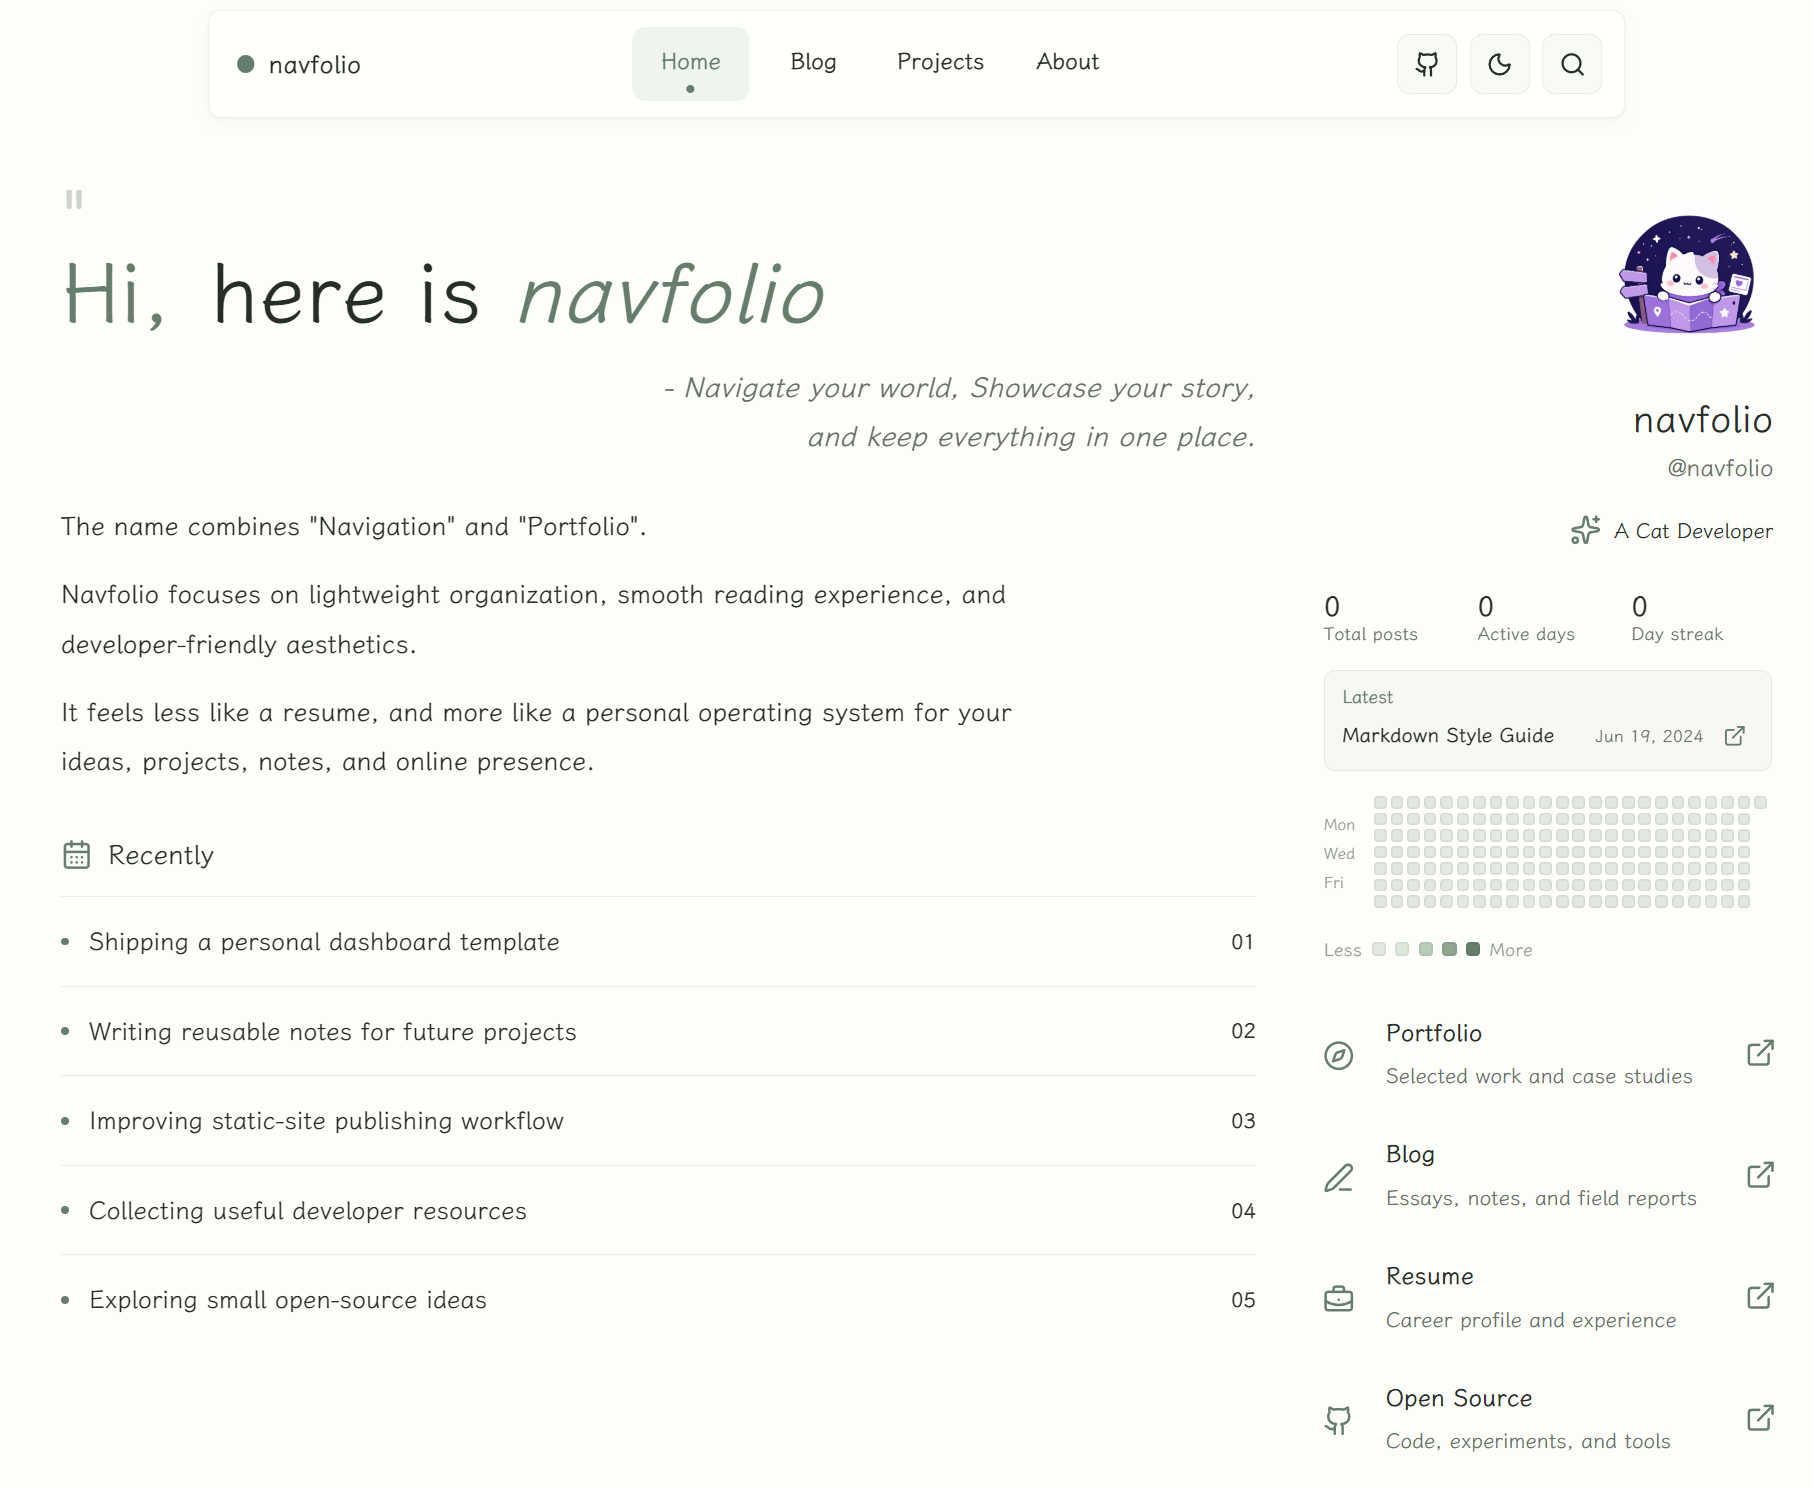
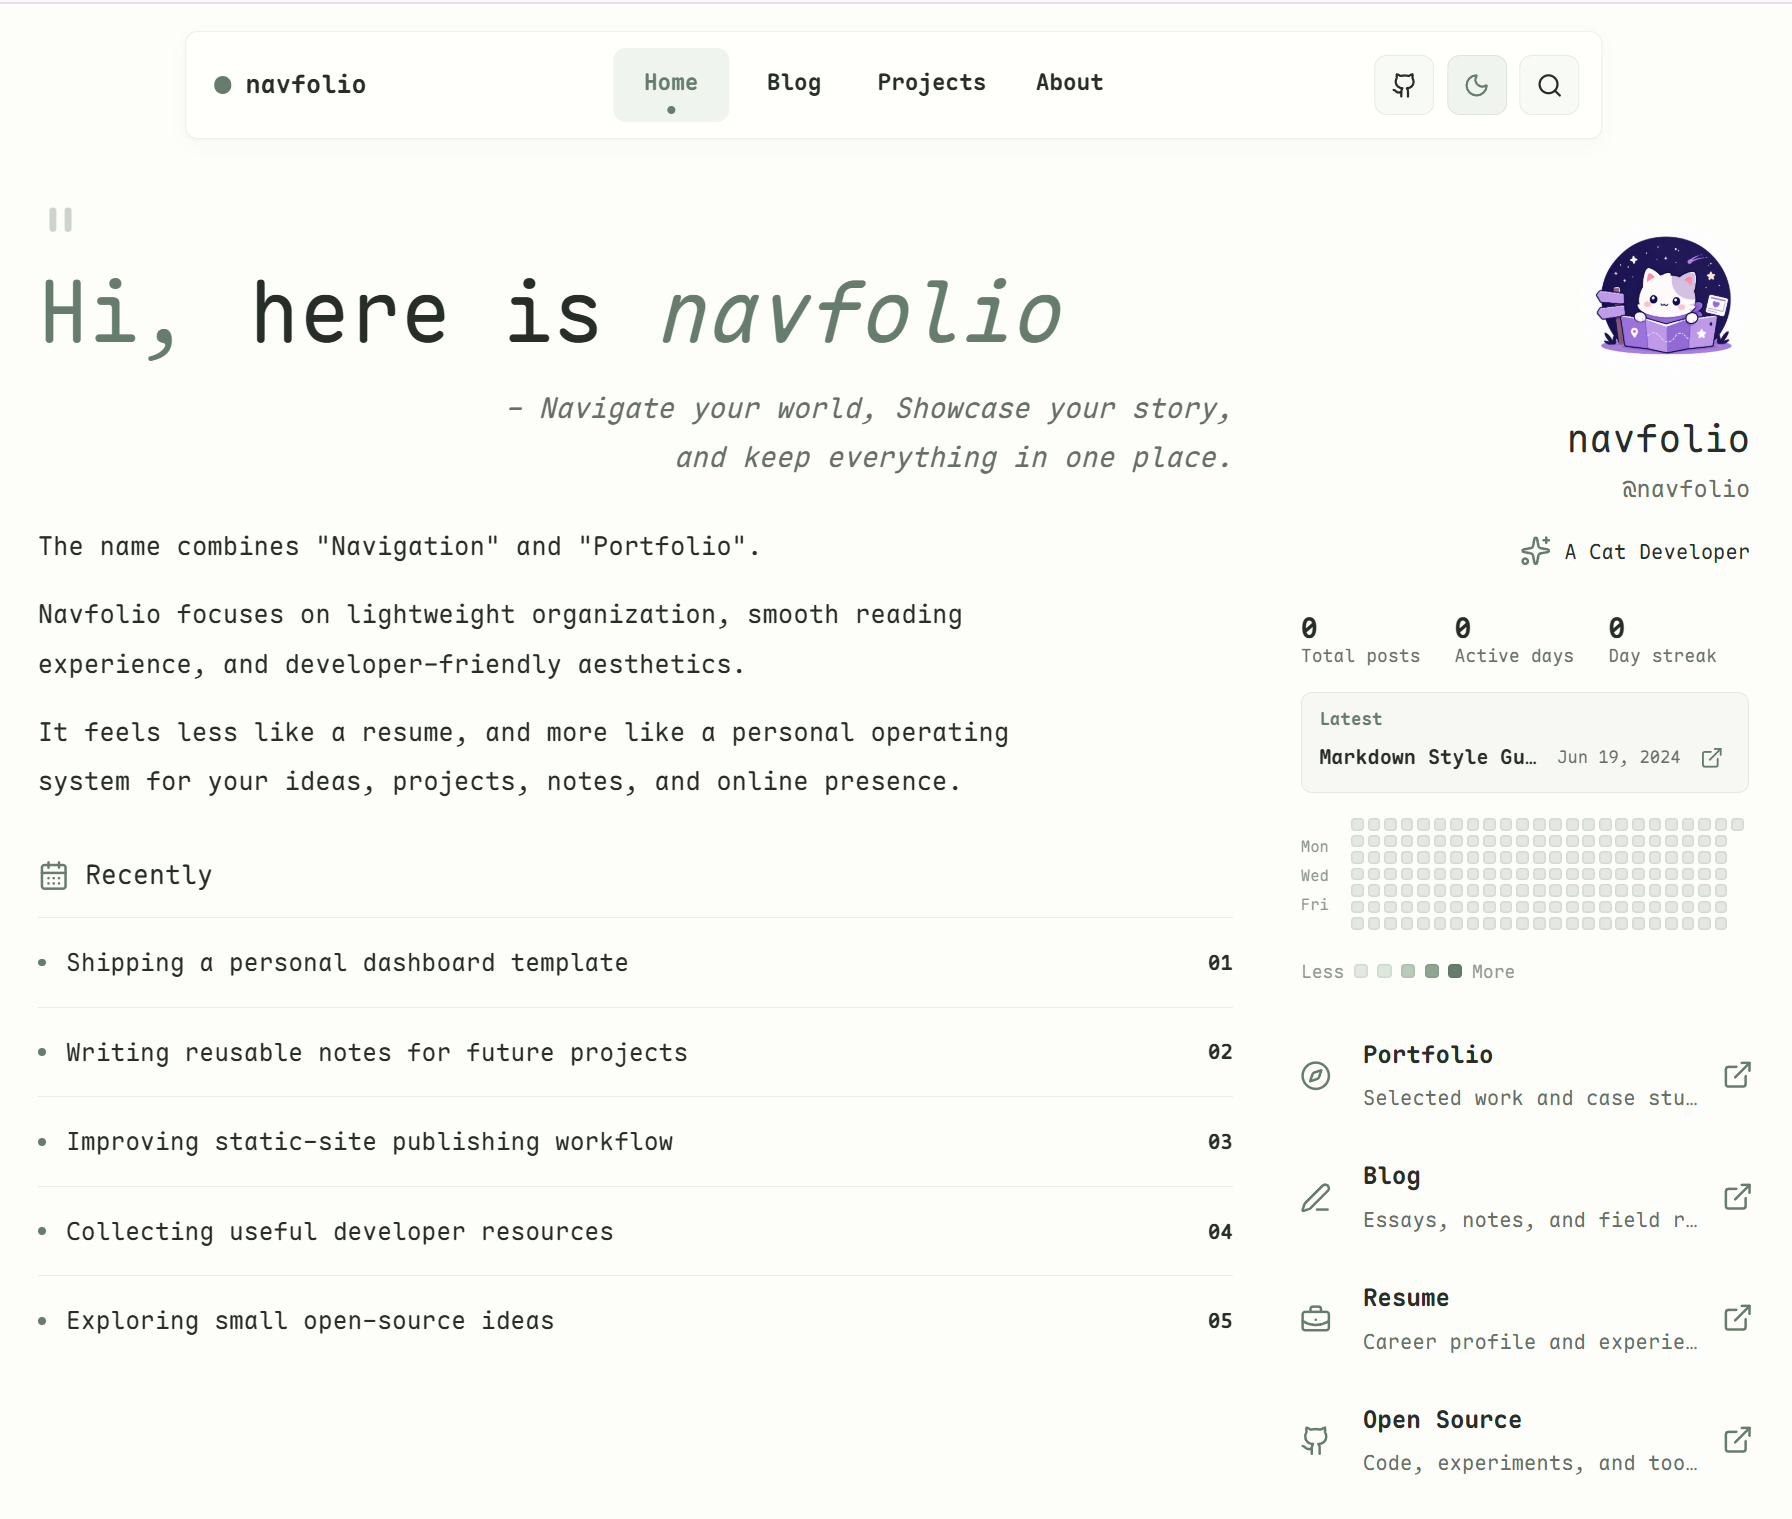
fixed font using

diff --git a/src/styles/global.css b/src/styles/global.css
@@ -48,7 +48,7 @@
   --layout-page-gutter: 32px;
   --layout-page-top: 126px;
   --layout-page-bottom: 72px;
-  --font-serif-cn: 'LXGW WenKai', 'STKaiti', 'KaiTi', serif;
+  --font-serif-cn: 'Maple Mono', 'LXGW WenKai', 'STKaiti', 'KaiTi', serif;
   --font-mono: 'Maple Mono', ui-monospace, SFMono-Regular, Menlo, Monaco, Consolas, monospace;
   --font-body: var(--font-serif-cn);
   --font-display: var(--font-serif-cn);